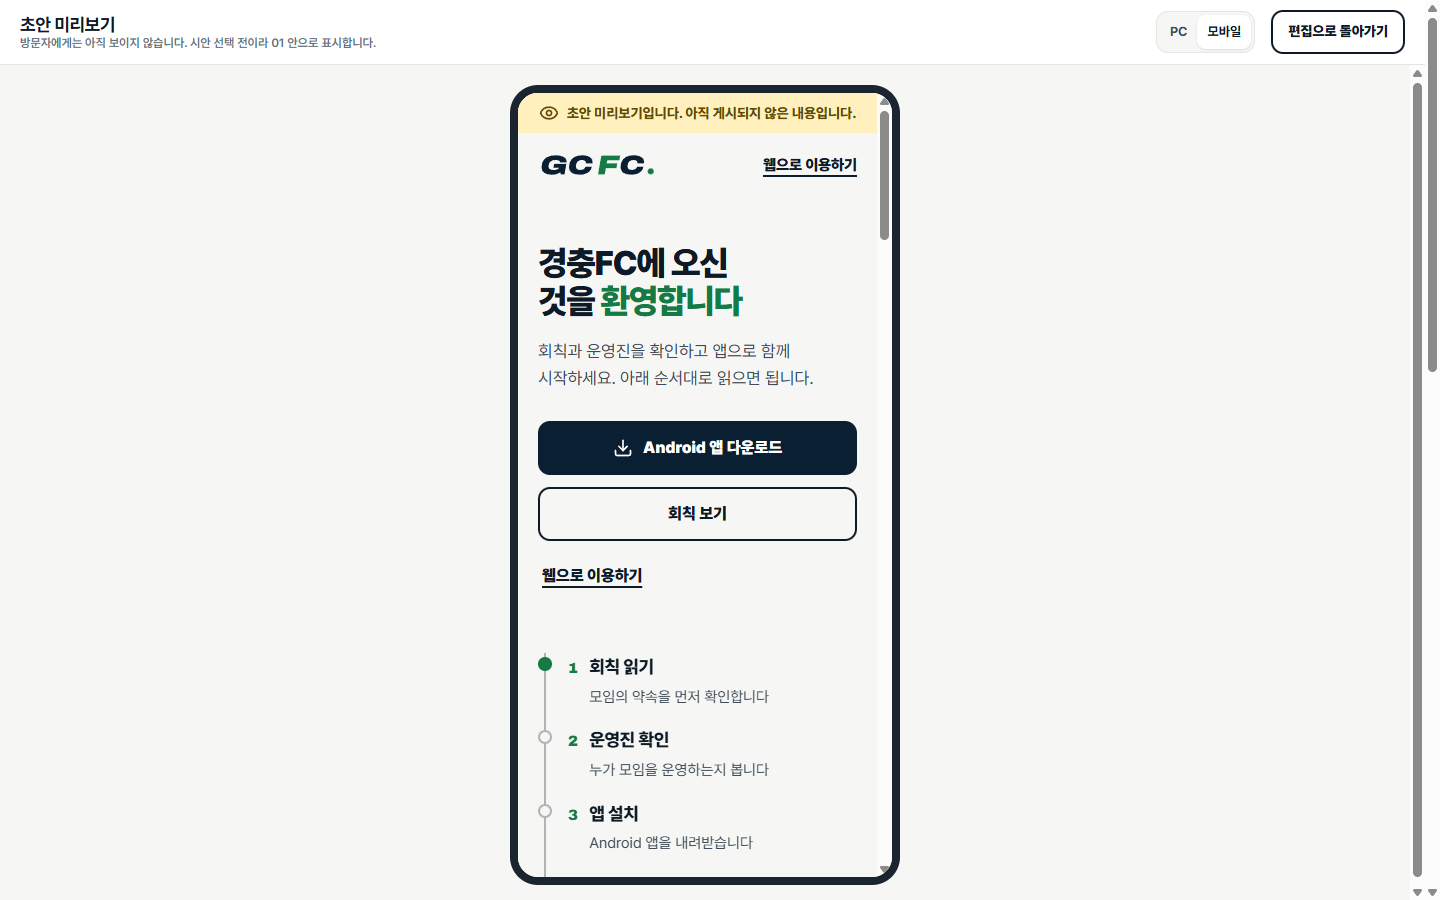
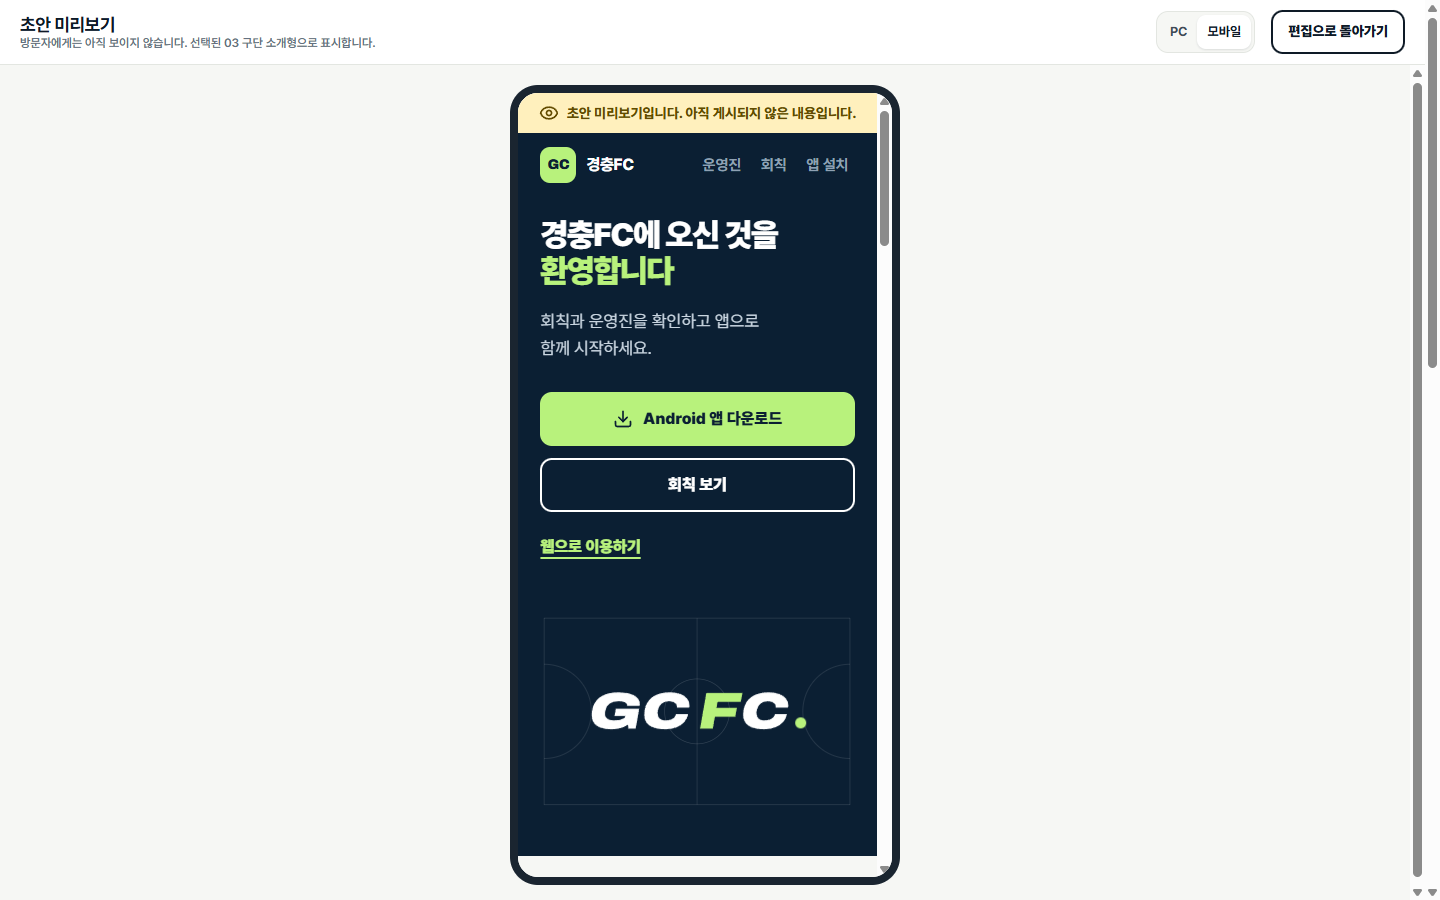
docs: refine chosen welcome concept 03 and admin preview
Hide the officers section when none are published, fix hidden example
tags still rendering, and point the admin preview at concept 03.

Claude-Session: https://claude.ai/code/session_01K6zby7Mx4NVZxagi4YSCKr

Changed region(s): [[0.3438, 0.1244, 0.625, 0.9644], [0.125, 0.0311, 0.25, 0.0622]]

diff --git a/docs/ux-concepts/welcome-page/admin/index.html b/docs/ux-concepts/welcome-page/admin/index.html
@@ -246,7 +246,7 @@ FINISH: unreviewed and undocumented is unfinished; this build ends with the fini
 
 <div class="preview" id="preview" role="dialog" aria-modal="true" aria-labelledby="preview-title" hidden>
   <header>
-    <h2 id="preview-title">초안 미리보기<small>방문자에게는 아직 보이지 않습니다. 시안 선택 전이라 01 안으로 표시합니다.</small></h2>
+    <h2 id="preview-title">초안 미리보기<small>방문자에게는 아직 보이지 않습니다. 선택된 03 구단 소개형으로 표시합니다.</small></h2>
     <span class="proto-seg" id="preview-size">
       <button type="button" data-size="pc" aria-pressed="true">PC</button>
       <button type="button" data-size="mobile" aria-pressed="false">모바일</button>
@@ -357,7 +357,7 @@ FINISH: unreviewed and undocumented is unfinished; this build ends with the fini
     if (v.section) section = v.section;
     var changed = v.changed || [];
     $("ed-top").innerHTML =
-      '<dl class="welcome-status" aria-label="게시 상태"><div><dt>방문자가 보는 게시본 <span class="status ' + v.pub[1] + '">' + v.pub[0] + "</span></dt><dd>" + v.pub[2] + (key === "first" ? "" : '<small>게시한 사람: 운영진 이름 예시 1</small>') + "</dd>" + (key === "first" ? "" : '<a href="../concept-01/index.html">공개 페이지 열기</a>') + "</div>" +
+      '<dl class="welcome-status" aria-label="게시 상태"><div><dt>방문자가 보는 게시본 <span class="status ' + v.pub[1] + '">' + v.pub[0] + "</span></dt><dd>" + v.pub[2] + (key === "first" ? "" : '<small>게시한 사람: 운영진 이름 예시 1</small>') + "</dd>" + (key === "first" ? "" : '<a href="../concept-03/index.html">공개 페이지 열기</a>') + "</div>" +
       '<div><dt>편집 중인 초안 <span class="status ' + v.draft[1] + '">' + v.draft[0] + "</span></dt><dd>" + v.draft[2] + '<small>저장한 사람: 운영진 이름 예시 1</small></dd></div></dl>' +
       alertHtml(v.alert) +
       '<div class="welcome-sections" role="group" aria-label="편집 영역">' + SECTIONS.map(function (s) {
@@ -384,7 +384,7 @@ FINISH: unreviewed and undocumented is unfinished; this build ends with the fini
     pv.hidden = !v.preview;
     if (v.preview) {
       var frame = pv.querySelector("iframe"), theme = document.documentElement.getAttribute("data-theme");
-      var src = "../concept-01/index.html?embed=1&draft=1&theme=" + theme;
+      var src = "../concept-03/index.html?embed=1&draft=1&theme=" + theme;
       if (frame.getAttribute("data-src") !== src) { frame.setAttribute("data-src", src); frame.src = src; }
       pv.querySelector("[data-close-preview]").focus();
     }

diff --git a/docs/ux-concepts/welcome-page/concept-03/index.html b/docs/ux-concepts/welcome-page/concept-03/index.html
@@ -169,6 +169,7 @@
 }
 
 /* Sections */
+.section[hidden], .hero-nav a[hidden] { display: none; }
 .section { padding: clamp(56px, 9vh, 104px) var(--gutter); scroll-margin-top: var(--proto-h); }
 .section-head { max-width: 40em; margin-bottom: 36px; }
 .section-head h2 { font-size: clamp(28px, 3.6vw, 46px); font-weight: 900; letter-spacing: -.03em; }
@@ -470,9 +471,13 @@ FINISH: unreviewed and undocumented is unfinished; this build ends with the fini
 
   function renderStaff() {
     var block = pageBlock("운영진 소개"), s = W.staff(), el = $("staff-body");
-    $("staff-tag").hidden = !!block || !s.length;
+    /* With no published officers the section and its shortcut leave the page instead of opening on an empty block. */
+    var none = !block && !s.length;
+    $("staff").hidden = none;
+    document.querySelector('.hero-nav a[href="#staff"]').hidden = none;
+    $("staff-tag").hidden = !!block;
     if (block) { el.innerHTML = block; return; }
-    if (!s.length) { el.innerHTML = '<div class="blank"><b>운영진 소개를 준비하고 있습니다</b>소개가 등록되면 이 자리에 표시됩니다.</div>'; return; }
+    if (none) { el.innerHTML = ""; return; }
     var lead = s[0], rest = s.slice(1);
     el.innerHTML = '<div class="people"><div class="lead-card"><span class="role">' + esc(lead.role) + "</span><b>" + esc(lead.name) + "</b>" + (lead.bio ? "<p>" + esc(lead.bio) + "</p>" : "") + "</div>" +
       '<ul class="sheet-list' + (rest.length < 3 ? " single" : "") + '">' + rest.map(function (m) {

diff --git a/docs/ux-concepts/welcome-page/shared/base.css b/docs/ux-concepts/welcome-page/shared/base.css
@@ -334,6 +334,7 @@ summary:focus-visible,
 }
 
 .example-tag .ic { width: 15px; height: 15px; }
+.example-tag[hidden] { display: none; }
 
 /* The horizontal logo ships with a small tagline row; headers show only the
    wordmark row by clipping the same asset instead of redrawing it. */

diff --git a/docs/ux-concepts/welcome-page/README.md b/docs/ux-concepts/welcome-page/README.md
@@ -70,7 +70,7 @@ python -m http.server 4173 --bind 127.0.0.1
 - 회칙 탐색: 한 장씩 넘겨 읽는다. PC는 왼쪽 장 목록, 모바일은 장 선택 상자와 이전/다음 버튼. "전체 펼쳐 읽기"로 한 번에 볼 수도 있다. 조항 링크로 들어오면 해당 장이 열린다.
 - 모션: 첫 화면 한 번. 코트 선이 그려지고 공이 마침표 자리에 내려앉는다. 현행 방문자 히어로의 "공이 마침표가 된다"와 같은 문법이다.
 - 장점: 브랜드 인상과 소속감이 가장 크다. 운영진이 회칙보다 먼저 나온다. 현행 홈의 네이비 패널, 피치 카드와 가장 닮았다.
-- 단점: 회칙이 세 번째라 회칙만 보러 온 사람에게는 가장 멀다. 운영진이 0명이면 첫 섹션이 비어 보인다. 첫 화면의 정보량이 가장 적다.
+- 단점: 회칙이 세 번째라 회칙만 보러 온 사람에게는 가장 멀다. 첫 화면의 정보량이 가장 적다. (선택 후 보완: 운영진이 0명이면 운영진 섹션과 상단 바로가기를 숨기고 회칙이 첫 섹션이 된다.)
 - 구현 부담: 중. 인라인 SVG와 키프레임 모션, 장 넘김 상태. 운영진 수에 따라 달라지는 배치 검증이 필요하다.
 
 ## 같은 기준 비교

diff --git a/docs/ux-concepts/welcome-page/admin/README.md b/docs/ux-concepts/welcome-page/admin/README.md
@@ -13,7 +13,7 @@
 - 운영진 소개 영역 맨 위에 "공개 이름, 직책 표시명, 소개는 공개 페이지에만 쓰이며 계정의 회원 유형, 실제 직책, 시스템 권한은 바뀌지 않는다"는 안내를 둡니다.
 - Android 버전, 빌드 코드, 파일 크기, 확인 시점은 읽기 전용 상자입니다. 운영진은 노출 여부와 설치 안내만 고칩니다.
 - iOS는 상태(준비 중, 테스트 참여, 출시, 숨김), 배포 주소, 안내 문구를 고칩니다. 테스트 참여와 출시는 https 주소가 있어야 게시됩니다.
-- 미리보기는 전체 화면으로 열리고 PC와 모바일을 바꿔 볼 수 있습니다. 화면 맨 위에 "초안 미리보기입니다. 아직 게시되지 않은 내용입니다." 띠가 붙습니다. 시안 선택 전이라 01 안을 넣어 두었습니다.
+- 미리보기는 전체 화면으로 열리고 PC와 모바일을 바꿔 볼 수 있습니다. 화면 맨 위에 "초안 미리보기입니다. 아직 게시되지 않은 내용입니다." 띠가 붙습니다. 선택된 03 구단 소개형을 넣어 두었습니다.
 
 ## 상태
 
